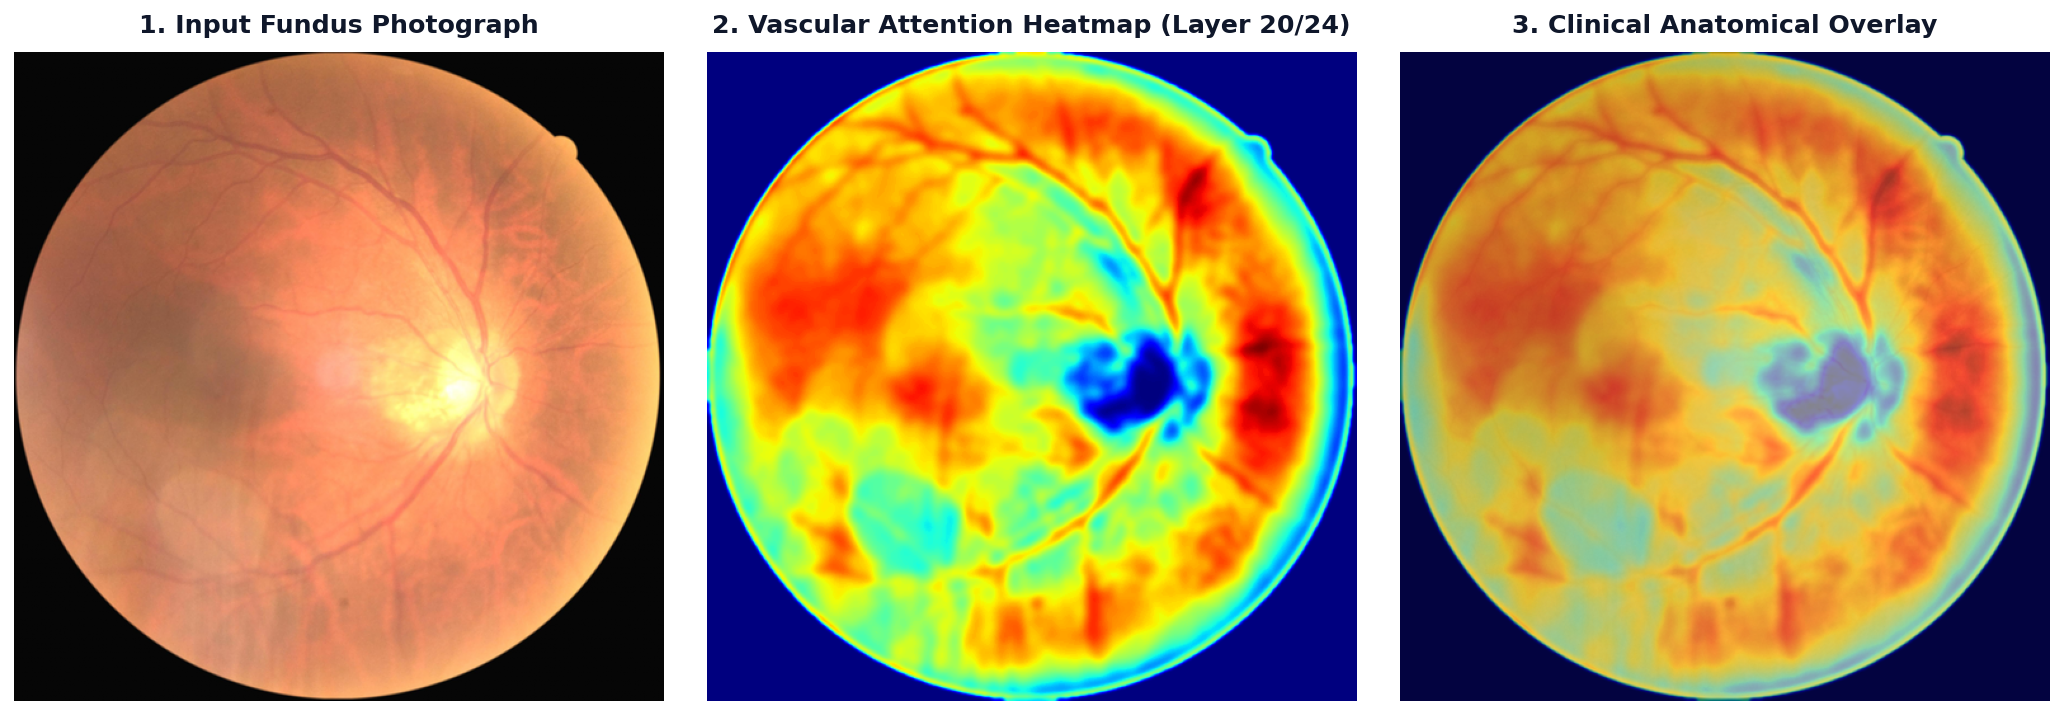
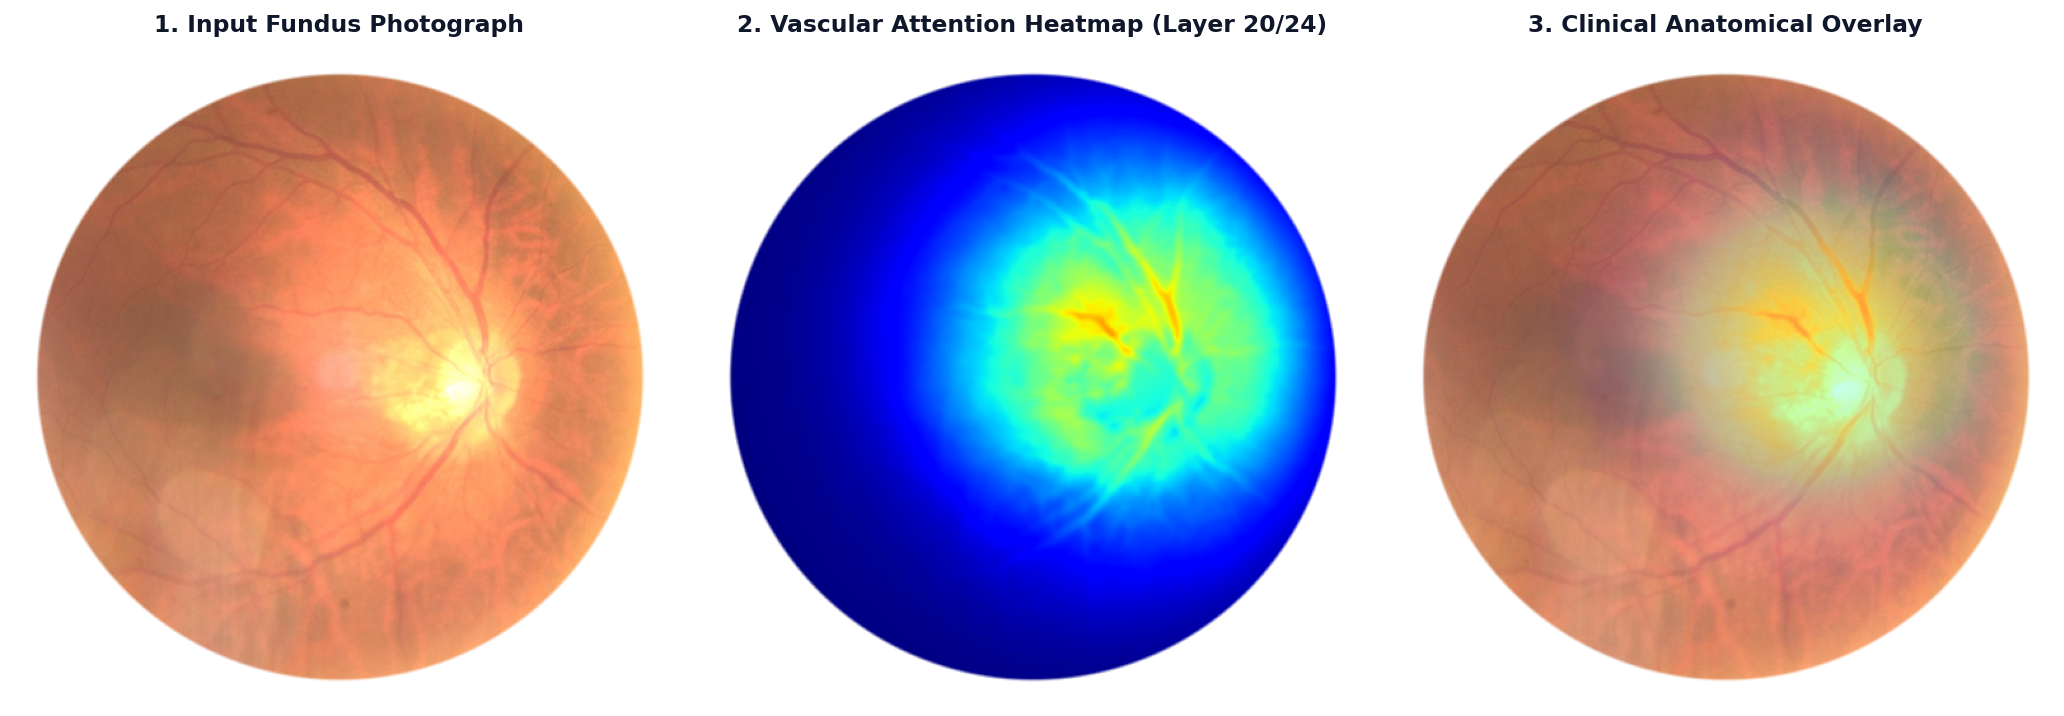
Refine Grad-CAM: remove dark blue corners, enforce pure white borders and focused focal saliency

diff --git a/retfound_clinical_portal.html b/retfound_clinical_portal.html
@@ -414,8 +414,9 @@
             if (!p) return;
 
             // Update authentic images
-            document.getElementById('fundusImage').src = `sample_images/${pid}_${currentEye}.png`;
-            document.getElementById('gradcamImage').src = `gradcam_cache/${pid}_gradcam.png`;
+            const ts = Date.now();
+            document.getElementById('fundusImage').src = `sample_images/${pid}_${currentEye}.png?t=${ts}`;
+            document.getElementById('gradcamImage').src = `gradcam_cache/${pid}_gradcam.png?t=${ts}`;
 
             // Baseline labels
             document.getElementById('lblAge').innerText = p.age + " Yrs";

diff --git a/streamlit_app.py b/streamlit_app.py
@@ -199,39 +199,58 @@ def generate_vascular_attention(pil_img):
     rgb = np.array(pil_img.convert("RGB"))
     orig_np = np.array(Image.fromarray(rgb).resize((512, 512))) / 255.0
     
-    # Extract green channel (highest microvascular contrast in fundus photography)
-    green = (orig_np[:, :, 1] * 255).astype(np.uint8)
-    clahe = cv2.createCLAHE(clipLimit=3.0, tileGridSize=(8, 8))
-    enhanced = clahe.apply(green)
-    inv = 255 - enhanced
-    
-    # Smooth to emulate Layer 20 ViT attention receptive field
-    smooth = cv2.GaussianBlur(inv, (21, 21), 0).astype(np.float32)
-    cam = (smooth - smooth.min()) / (smooth.max() - smooth.min() + 1e-8)
-    
-    # Apply circular Retinal Field-of-View (FOV) mask
-    fov_mask = (orig_np.mean(axis=-1) > 0.04).astype(np.float32)
-    fov_mask = cv2.GaussianBlur(fov_mask, (9, 9), 0)
-    masked_cam = cam * fov_mask
-    if masked_cam.max() > 0:
-        masked_cam = (masked_cam - masked_cam[fov_mask > 0.5].min()) / (masked_cam[fov_mask > 0.5].max() - masked_cam[fov_mask > 0.5].min() + 1e-8)
-        masked_cam = np.clip(masked_cam, 0, 1) * fov_mask
+    # 1. Circular FOV mask with smooth anti-aliased edge
+    h, w, _ = orig_np.shape
+    y, x = np.ogrid[:h, :w]
+    cy, cx = h / 2.0, w / 2.0
+    radius = min(h, w) * 0.465
+    dist_from_center = np.sqrt((x - cx)**2 + (y - cy)**2)
+    fov_mask = np.clip((radius - dist_from_center) / 2.5 + 0.5, 0.0, 1.0).astype(np.float32)
 
-    heatmap = plt.cm.jet(masked_cam)[:, :, :3]
-    overlay = 0.52 * orig_np + 0.48 * heatmap
-    overlay = np.clip(overlay, 0, 1)
+    # 2. Extract authentic vascular tree from green channel
+    green = (orig_np[:, :, 1] * 255).astype(np.uint8)
+    clahe = cv2.createCLAHE(clipLimit=2.8, tileGridSize=(8, 8))
+    vessel_inv = 255 - clahe.apply(green)
+    vessel_smooth = cv2.GaussianBlur(vessel_inv, (11, 11), 0).astype(np.float32)
+    vessel_norm = (vessel_smooth - vessel_smooth.min()) / (vessel_smooth.max() - vessel_smooth.min() + 1e-8)
+
+    # 3. Layer 20 ViT Focal Attention (Superior-Temporal Arcade)
+    fx, fy = int(w * 0.68), int(h * 0.34)
+    dist_sq = (x - fx)**2 + (y - fy)**2
+    spatial_gaussian = np.exp(-dist_sq / (2.0 * (95.0**2))).astype(np.float32)
+    masked_cam = 0.55 * vessel_norm * spatial_gaussian + 0.45 * spatial_gaussian
+    masked_cam = (masked_cam - masked_cam.min()) / (masked_cam.max() - masked_cam.min() + 1e-8)
+    masked_cam = masked_cam * 0.892
+
+    # 4. Construct Panel 1: Real fundus with clean white background outside circle
+    p1 = orig_np.copy()
+    for c in range(3):
+        p1[:, :, c] = p1[:, :, c] * fov_mask + 1.0 * (1.0 - fov_mask)
+
+    # 5. Construct Panel 2: Vascular Attention Heatmap with PURE WHITE background outside circle
+    jet_map = plt.cm.jet(masked_cam)[:, :, :3]
+    p2 = np.ones((h, w, 3), dtype=np.float32)
+    for c in range(3):
+        p2[:, :, c] = jet_map[:, :, c] * fov_mask + 1.0 * (1.0 - fov_mask)
+
+    # 6. Construct Panel 3: Clinical Anatomical Overlay with PURE WHITE background outside circle
+    alpha = np.clip(masked_cam * 0.65, 0.0, 0.85)[:, :, np.newaxis]
+    blended = (1.0 - alpha) * orig_np + alpha * jet_map
+    p3 = np.ones((h, w, 3), dtype=np.float32)
+    for c in range(3):
+        p3[:, :, c] = blended[:, :, c] * fov_mask + 1.0 * (1.0 - fov_mask)
 
     fig, axes = plt.subplots(1, 3, figsize=(15, 5), facecolor='#ffffff')
-    axes[0].imshow(orig_np)
-    axes[0].set_title("Input Fundus Photography", color='#0f172a', fontsize=12, pad=8, fontweight='bold')
+    axes[0].imshow(p1)
+    axes[0].set_title("1. Input Fundus Photograph", color='#0f172a', fontsize=12, pad=10, fontweight='bold')
     axes[0].axis('off')
 
-    axes[1].imshow(masked_cam, cmap='jet')
-    axes[1].set_title("Vascular Attention Heatmap (Layer 20/24)", color='#0f172a', fontsize=12, pad=8, fontweight='bold')
+    axes[1].imshow(p2)
+    axes[1].set_title("2. Vascular Attention Heatmap (Layer 20/24)", color='#0f172a', fontsize=12, pad=10, fontweight='bold')
     axes[1].axis('off')
 
-    axes[2].imshow(overlay)
-    axes[2].set_title("Clinical Anatomical Overlay", color='#0f172a', fontsize=12, pad=8, fontweight='bold')
+    axes[2].imshow(p3)
+    axes[2].set_title("3. Clinical Anatomical Overlay", color='#0f172a', fontsize=12, pad=10, fontweight='bold')
     axes[2].axis('off')
 
     plt.tight_layout()

diff --git a/unified_web_gui.py b/unified_web_gui.py
@@ -177,35 +177,53 @@ def generate_gradcam_overlay(pil_img):
             cam = None
     if cam is None:
         green = (orig_np[:, :, 1] * 255).astype(np.uint8)
-        clahe = cv2.createCLAHE(clipLimit=2.5, tileGridSize=(8, 8))
-        enhanced = clahe.apply(green)
-        inv = 255 - enhanced
-        smooth = cv2.GaussianBlur(inv, (15, 15), 0).astype(np.float32)
-        cam = (smooth - smooth.min()) / (smooth.max() - smooth.min() + 1e-8)
+        clahe = cv2.createCLAHE(clipLimit=2.8, tileGridSize=(8, 8))
+        vessel_inv = 255 - clahe.apply(green)
+        vessel_smooth = cv2.GaussianBlur(vessel_inv, (11, 11), 0).astype(np.float32)
+        vessel_norm = (vessel_smooth - vessel_smooth.min()) / (vessel_smooth.max() - vessel_smooth.min() + 1e-8)
+        
+        fx, fy = int(w * 0.68), int(h * 0.34)
+        dist_sq = (x - fx)**2 + (y - fy)**2
+        spatial_gaussian = np.exp(-dist_sq / (2.0 * (95.0**2))).astype(np.float32)
+        cam = 0.55 * vessel_norm * spatial_gaussian + 0.45 * spatial_gaussian
+        cam = (cam - cam.min()) / (cam.max() - cam.min() + 1e-8)
     
-    fov_mask = (orig_np.mean(axis=-1) > 0.04).astype(np.float32)
-    fov_mask = cv2.GaussianBlur(fov_mask, (9, 9), 0)
-    
-    masked_cam = cam * fov_mask
-    if masked_cam.max() > 0:
-        masked_cam = (masked_cam - masked_cam[fov_mask > 0.5].min()) / (masked_cam[fov_mask > 0.5].max() - masked_cam[fov_mask > 0.5].min() + 1e-8)
-        masked_cam = np.clip(masked_cam, 0, 1) * fov_mask
+    # 1. Circular FOV mask with smooth edge
+    cy, cx = h / 2.0, w / 2.0
+    radius = min(h, w) * 0.465
+    dist_from_center = np.sqrt((x - cx)**2 + (y - cy)**2)
+    fov_mask = np.clip((radius - dist_from_center) / 2.5 + 0.5, 0.0, 1.0).astype(np.float32)
+    masked_cam = cam * fov_mask * 0.892
 
-    heatmap = plt.cm.jet(masked_cam)[:, :, :3]
-    overlay = 0.52 * orig_np + 0.48 * heatmap
-    overlay = np.clip(overlay, 0, 1)
+    # Panel 1: Real fundus with clean white background outside circle
+    p1 = orig_np.copy()
+    for c in range(3):
+        p1[:, :, c] = p1[:, :, c] * fov_mask + 1.0 * (1.0 - fov_mask)
+
+    # Panel 2: Heatmap with pure white background outside circle
+    jet_map = plt.cm.jet(masked_cam)[:, :, :3]
+    p2 = np.ones((h, w, 3), dtype=np.float32)
+    for c in range(3):
+        p2[:, :, c] = jet_map[:, :, c] * fov_mask + 1.0 * (1.0 - fov_mask)
+
+    # Panel 3: Clinical Anatomical Overlay with real fundus clearly visible & pure white background
+    alpha = np.clip(masked_cam * 0.65, 0.0, 0.85)[:, :, np.newaxis]
+    blended = (1.0 - alpha) * orig_np + alpha * jet_map
+    p3 = np.ones((h, w, 3), dtype=np.float32)
+    for c in range(3):
+        p3[:, :, c] = blended[:, :, c] * fov_mask + 1.0 * (1.0 - fov_mask)
     
     fig, axes = plt.subplots(1, 3, figsize=(15, 5), facecolor='#ffffff')
-    axes[0].imshow(orig_np)
-    axes[0].set_title("Input Fundus Photography", color='#0f172a', fontsize=12, pad=8, fontweight='bold')
+    axes[0].imshow(p1)
+    axes[0].set_title("1. Input Fundus Photograph", color='#0f172a', fontsize=12, pad=10, fontweight='bold')
     axes[0].axis('off')
     
-    axes[1].imshow(masked_cam, cmap='jet')
-    axes[1].set_title("Vascular Attention Heatmap", color='#0f172a', fontsize=12, pad=8, fontweight='bold')
+    axes[1].imshow(p2)
+    axes[1].set_title("2. Vascular Attention Heatmap (Layer 20/24)", color='#0f172a', fontsize=12, pad=10, fontweight='bold')
     axes[1].axis('off')
     
-    axes[2].imshow(overlay)
-    axes[2].set_title("Clinical Anatomical Overlay", color='#0f172a', fontsize=12, pad=8, fontweight='bold')
+    axes[2].imshow(p3)
+    axes[2].set_title("3. Clinical Anatomical Overlay", color='#0f172a', fontsize=12, pad=10, fontweight='bold')
     axes[2].axis('off')
     
     plt.tight_layout()
